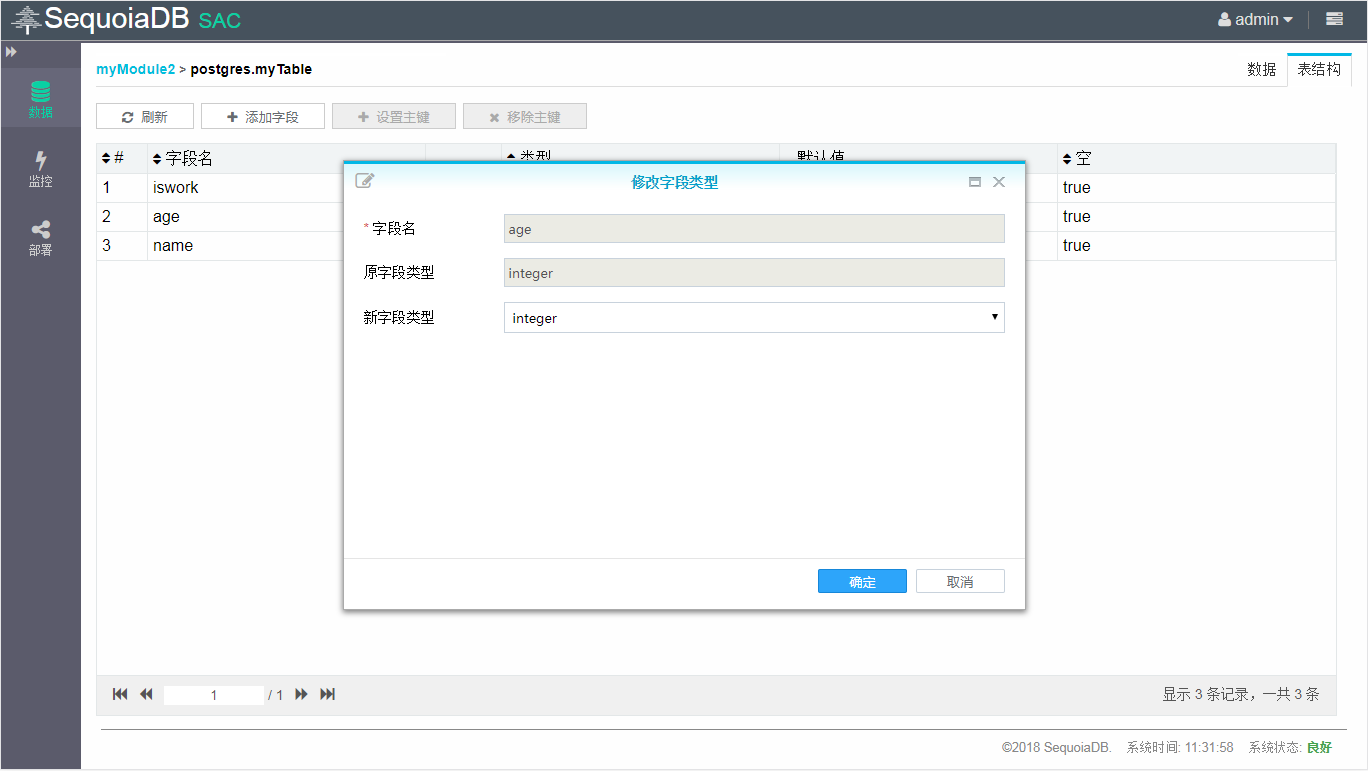
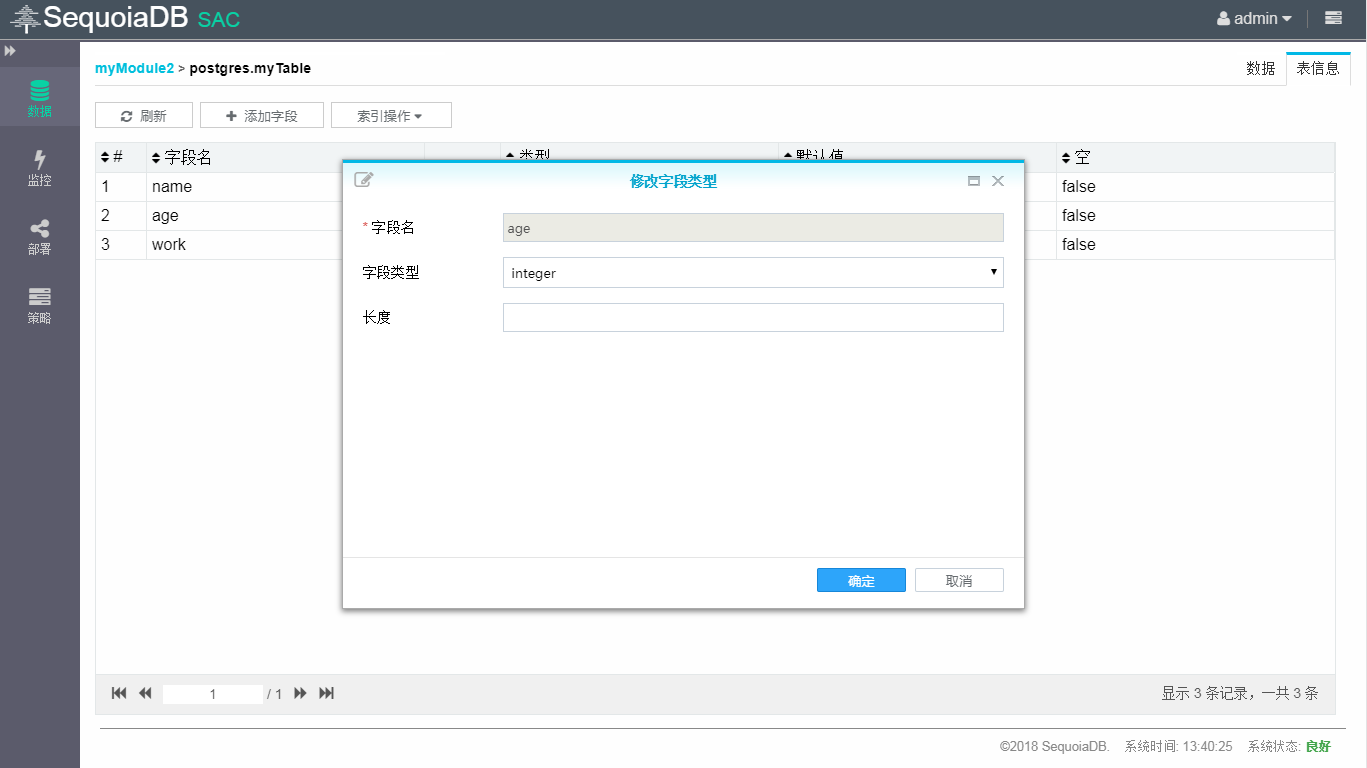
SEQUOIADBMAINSTREAM-3521 1.修改官网文档【SAC】【SequoiaSQL-PostgreSQL】，新增添加索引、删除索引说明。 2.修复创建删除索引大小写问题。
git-svn-id: http://192.168.20.11/sequoiadb/trunk@36600 6121f079-4a18-41d3-8c30-8870a322f2c2

diff --git a/tools/om_plugins/sequoiasql/www/app/controller/Data/PostgreSQL/Operate/Structure.js b/tools/om_plugins/sequoiasql/www/app/controller/Data/PostgreSQL/Operate/Structure.js
@@ -407,11 +407,11 @@
             var formValue = $scope.CreateIndexWindow['config'].getValue() ;
             if( formValue['type'] == 'normal' )
             {
-               sql = sprintf( 'create index on ?', SdbSwap.tbName ) ; 
+               sql = sprintf( 'create index on ?', addQuotes( SdbSwap.tbName ) ) ; 
             }
             else
             {
-               sql = sprintf( 'create unique index on ?', SdbSwap.tbName ) ; 
+               sql = sprintf( 'create unique index on ?', addQuotes( SdbSwap.tbName ) ) ; 
             }
             var isFrist = true ;
             var existList = {} ;
@@ -429,7 +429,7 @@
                      if( existList[field['field']] )
                      sql += ',' ;
                   }
-                  sql += field['field'] ;
+                  sql += addQuotes( field['field'] ) ;
                }
             } ) ;
             sql += ')' ;
@@ -480,7 +480,7 @@
             $scope.DropIndexWindow['callback']['SetOkButton']( $scope.pAutoLanguage( '确定' ), function(){
                var formValue = $scope.DropIndexWindow['config'].getValue() ;
                var sql = '' ;
-               sql = sprintf( 'drop index ?', formValue['index'] ) ;
+               sql = sprintf( 'drop index ?', addQuotes( formValue['index'] ) ) ;
                execSql( sql ) ;
                $scope.DropIndexWindow['callback']['Close']() ;
             } ) ;

diff --git a/doc/src/document/sac/postgresql_data/field.md b/doc/src/document/sac/postgresql_data/field.md
@@ -24,12 +24,20 @@
 从字段列表中选择需要删除默认值的字段，点击该行中的编辑图标，选择删除默认值即可对字段默认值进行删除操作。
 ![删除默认值](sac/data_operation/PostgreSQL/drop_default.png)
 
+###创建索引
+点击页面中的索引操作按钮、创建索引，选择需要设置的字段，点击确定即可。
+![创建索引](sac/data_operation/PostgreSQL/create_index.png)
+
+###删除索引
+点击页面中的索引操作按钮、删除索引，选择需要删除的索引，点击确定即可删除。
+![删除索引](sac/data_operation/PostgreSQL/drop_index.png)
+
 ###设置主键
-点击页面中的设置主键按钮，选择需要设置为主键的字段，点击确定即可。
+点击页面中的索引操作按钮、设置主键，选择需要设置为主键的字段，点击确定即可。
 ![设置主键](sac/data_operation/PostgreSQL/set_primary.png)
 
 ###移除主键
-点击页面中的移除主键按钮，点击确定即可删除当前表的主键。
+点击页面中的索引操作按钮、移除主键，点击确定即可删除当前表的主键。
 ![移除主键](sac/data_operation/PostgreSQL/drop_primary.png)
 
 > ***Note：***